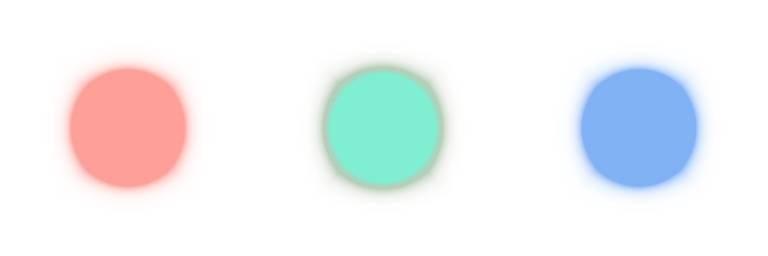
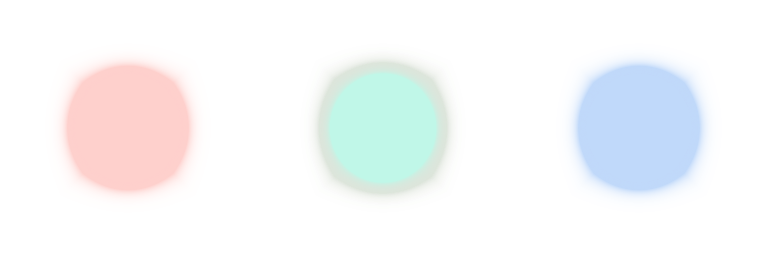
渲染流程中增加透明通道、场景透明

Changed region(s): [[0.4062, 0.25, 0.5938, 0.75], [0.75, 0.25, 0.9062, 0.75], [0.0938, 0.25, 0.25, 0.75]]

diff --git a/MyFrame/InGameRenderGraph.cpp b/MyFrame/InGameRenderGraph.cpp
@@ -11,6 +11,7 @@
 #include "ShadowMappingPass.h"
 #include "LambertianPass.h"
 #include "SkyboxPass.h"
+#include "LambertianTransparentPass.h"
 #include "OutlineMaskGenerationPass.h"
 #include "BlurOutlineDrawingPass.h"
 #include "HorizontalBlurPass.h"
@@ -52,8 +53,15 @@ namespace Rgph
 			AppendPass( std::move( pass ) );
 		}
 		{
-			auto pass = std::make_unique<OutlineMaskGenerationPass>(gfx, "outlineMask");
+			auto pass = std::make_unique<LambertianTransparentPass>(gfx, "lambertianTrans");
+			pass->SetSinkLinkage("shadowMap", "shadowMap.map");
+			pass->SetSinkLinkage("renderTarget", "skybox.renderTarget");
 			pass->SetSinkLinkage("depthStencil", "skybox.depthStencil");
+			AppendPass(std::move(pass));
+		}
+		{
+			auto pass = std::make_unique<OutlineMaskGenerationPass>(gfx, "outlineMask");
+			pass->SetSinkLinkage("depthStencil", "lambertianTrans.depthStencil");
 			AppendPass(std::move(pass));
 		}
 		// setup blur constant buffers
@@ -100,7 +108,7 @@ namespace Rgph
 		}
 		{
 			auto pass = std::make_unique<VerticalBlurPass>( "vertical",gfx );
-			pass->SetSinkLinkage( "renderTarget","skybox.renderTarget" );
+			pass->SetSinkLinkage( "renderTarget","lambertianTrans.renderTarget" );
 			pass->SetSinkLinkage( "depthStencil","outlineMask.depthStencil" );
 			pass->SetSinkLinkage( "scratchIn","horizontal.scratchOut" );
 			pass->SetSinkLinkage( "kernel","$.blurKernel" );
@@ -233,11 +241,13 @@ namespace Rgph
 	{
 		dynamic_cast<LambertianPass&>(FindPassByName("lambertian")).BindMainCamera(cam);
 		dynamic_cast<SkyboxPass&>(FindPassByName("skybox")).BindMainCamera(cam);
+		dynamic_cast<LambertianTransparentPass&>(FindPassByName("lambertianTrans")).BindMainCamera(cam);
 	}
 	void Rgph::InGameRenderGraph::BindShadowCamera(Camera& cam)
 	{
 		dynamic_cast<ShadowMappingPass&>(FindPassByName("shadowMap")).BindShadowCamera(cam);
 		dynamic_cast<LambertianPass&>(FindPassByName( "lambertian")).BindShadowCamera(cam);
+		dynamic_cast<LambertianTransparentPass&>(FindPassByName("lambertianTrans")).BindShadowCamera(cam);
 	}
 	void Rgph::InGameRenderGraph::DumpShadowMap(Graphics& gfx, const std::string& path)
 	{

diff --git a/MyFrame/LambertianTransparentPass.h b/MyFrame/LambertianTransparentPass.h
@@ -1,0 +1,62 @@
+#pragma once
+#include "RenderQueuePass.h"
+#include "Sink.h"
+#include "Source.h"
+#include "Stencil.h"
+#include "Camera.h"
+#include "DepthStencil.h"
+#include "ShadowCameraCbuf.h"
+#include "ShadowSampler.h"
+#include "Sampler.h"
+#include "Channels.h"
+
+namespace Rgph
+{
+    class LambertianTransparentPass : public RenderQueuePass
+    {
+    public:
+        LambertianTransparentPass(Graphics& gfx, std::string name)
+            :
+            RenderQueuePass(std::move(name)),
+            pShadowCBuf{ std::make_shared<Bind::ShadowCameraCbuf>(gfx) }
+        {
+            using namespace Bind;
+
+            AddBind(pShadowCBuf);
+
+            RegisterSink(DirectBufferSink<RenderTarget>::Make("renderTarget", renderTarget));
+            RegisterSink(DirectBufferSink<DepthStencil>::Make("depthStencil", depthStencil));
+            AddBindSink<Bind::Bindable>("shadowMap");
+
+            AddBind(std::make_shared<Bind::ShadowSampler>(gfx));
+            AddBind(std::make_shared<Bind::Sampler>(gfx, Bind::Sampler::Type::Anisotropic, false, 2));
+
+            RegisterSource(DirectBufferSource<RenderTarget>::Make("renderTarget", renderTarget));
+            RegisterSource(DirectBufferSource<DepthStencil>::Make("depthStencil", depthStencil));
+
+            // Transparent => Read Depth Only, NO writing
+            AddBind(Stencil::Resolve(gfx, Stencil::Mode::DepthOnly));
+        }
+
+        void BindMainCamera(const Camera& cam) noexcept
+        {
+            pMainCamera = &cam;
+        }
+        void BindShadowCamera(const Camera& cam) noexcept
+        {
+            pShadowCBuf->SetCamera(&cam);
+        }
+
+        void Execute(Graphics& gfx) const noxnd override
+        {
+            assert(pMainCamera);
+            pShadowCBuf->Update(gfx);
+            pMainCamera->BindToGraphics(gfx);
+            RenderQueuePass::Execute(gfx);
+        }
+
+    private:
+        std::shared_ptr<Bind::ShadowCameraCbuf> pShadowCBuf;
+        const Camera* pMainCamera = nullptr;
+    };
+}

diff --git a/MyFrame/LambertianPass.h b/MyFrame/LambertianPass.h
@@ -28,10 +28,13 @@ namespace Rgph
 			RegisterSink( DirectBufferSink<RenderTarget>::Make( "renderTarget",renderTarget ) );
 			RegisterSink( DirectBufferSink<DepthStencil>::Make( "depthStencil",depthStencil ) );
 			AddBindSink<Bind::Bindable>("shadowMap");
+
 			AddBind(std::make_shared<Bind::ShadowSampler>(gfx));
 			AddBind(std::make_shared<Bind::Sampler>(gfx, Bind::Sampler::Type::Anisotropic, false, 2));
+
 			RegisterSource( DirectBufferSource<RenderTarget>::Make( "renderTarget",renderTarget ) );
 			RegisterSource( DirectBufferSource<DepthStencil>::Make( "depthStencil",depthStencil ) );
+
 			AddBind( Stencil::Resolve( gfx,Stencil::Mode::Off ) );
 		}
 		void BindMainCamera(const Camera& cam) noexcept

diff --git a/MyFrame/Stencil.h b/MyFrame/Stencil.h
@@ -14,6 +14,7 @@ namespace Bind
 			Write,
 			Mask,
 			DepthOff,
+			DepthOnly,
 			DepthReversed,
 			DepthFirst, // for skybox render
 		};
@@ -45,6 +46,13 @@ namespace Bind
 			{
 				dsDesc.DepthEnable = FALSE;
 				dsDesc.DepthWriteMask = D3D11_DEPTH_WRITE_MASK_ZERO;
+			}
+			else if (mode == Mode::DepthOnly)
+			{
+				dsDesc.DepthEnable = TRUE;
+				dsDesc.DepthWriteMask = D3D11_DEPTH_WRITE_MASK_ZERO;
+				dsDesc.DepthFunc = D3D11_COMPARISON_LESS_EQUAL;
+				dsDesc.StencilEnable = FALSE;
 			}
 			else if( mode == Mode::DepthReversed )
 			{

diff --git a/MyFrame/Sprite3DNoLit.cpp b/MyFrame/Sprite3DNoLit.cpp
@@ -24,7 +24,7 @@ Sprite3DNoLit::Sprite3DNoLit(Graphics& gfx, std::vector<std::string> paths)
 
     {
         Technique shade("Shade", Chan::main);
-        Step only("lambertian");
+        Step only("lambertianTrans");
 
         only.AddBindable(dynTex);
         only.AddBindable(Sampler::Resolve(gfx));

diff --git a/MyFrame/CubeTiled.cpp b/MyFrame/CubeTiled.cpp
@@ -82,7 +82,7 @@ CubeTiled::CubeTiled(Graphics& gfx, XMFLOAT3 size, XMFLOAT2 numTiled)
 	{
 		Technique shade("Shade", Chan::main);
 		{
-			Step top("lambertian");
+			Step top("lambertianTrans");
 
 			top.AddBindable(Sampler::Resolve(gfx));
 
